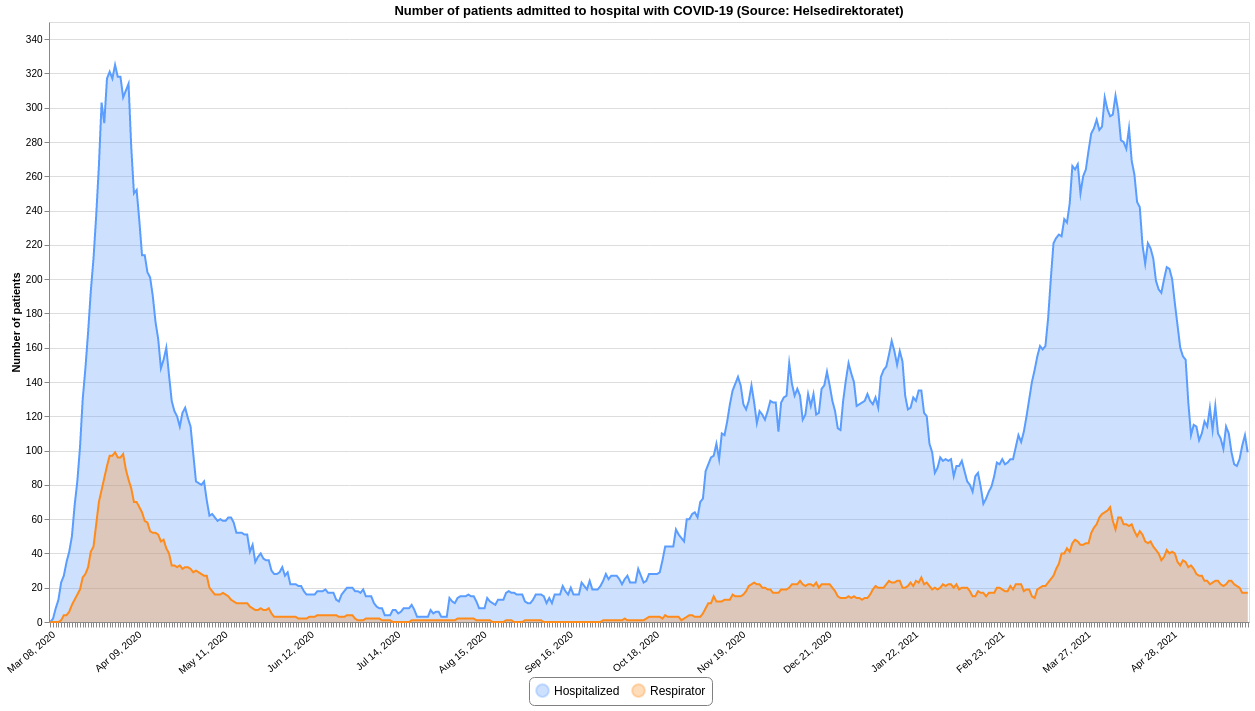
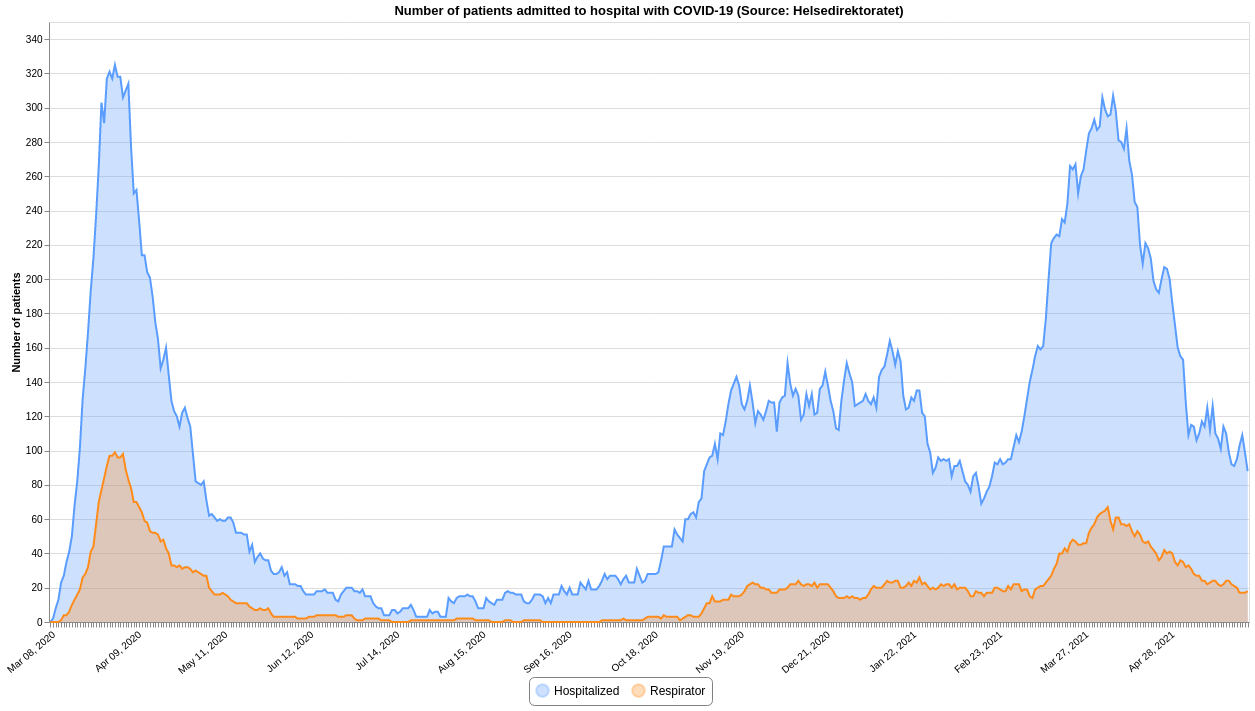
Updated 2021-05-27 12:51

diff --git a/README.md b/README.md
@@ -12,7 +12,7 @@ This repository contains datasets of daily time-series data related to COVID-19 
 | :--- | :--- | :--- | :--- | :--- |
 |[Confirmed](#confirmedcsv)|FHI / MSIS|2021-05-27 00:10:48+02:00|[<center>csv</center>](https://raw.githubusercontent.com/frefrik/c19norge-data/main/data/confirmed.csv)|[<center>preview</center>](data/confirmed.csv)|
 |[Dead](#deadcsv)|FHI|2021-05-26 13:20:54+02:00|[<center>csv</center>](https://raw.githubusercontent.com/frefrik/c19norge-data/main/data/dead.csv)|[<center>preview</center>](data/dead.csv)|
-|[Hospitalized](#hospitalizedcsv)|Helsedirektoratet|2021-05-26 12:20:54+02:00|[<center>csv</center>](https://raw.githubusercontent.com/frefrik/c19norge-data/main/data/hospitalized.csv)|[<center>preview</center>](data/hospitalized.csv)|
+|[Hospitalized](#hospitalizedcsv)|Helsedirektoratet|2021-05-27 12:50:50+02:00|[<center>csv</center>](https://raw.githubusercontent.com/frefrik/c19norge-data/main/data/hospitalized.csv)|[<center>preview</center>](data/hospitalized.csv)|
 |[Tested](#testedcsv)|FHI|2021-05-26 13:00:55+02:00|[<center>csv</center>](https://raw.githubusercontent.com/frefrik/c19norge-data/main/data/tested.csv)|[<center>preview</center>](data/tested.csv)|
 |[Tested Lab](#tested_labcsv)|FHI|2021-05-26 13:20:49+02:00|[<center>csv</center>](https://raw.githubusercontent.com/frefrik/c19norge-data/main/data/tested_lab.csv)|[<center>preview</center>](data/tested_lab.csv)|
 |[Transport](#transportcsv)|FHI|2021-05-26 09:00:51+02:00|[<center>csv</center>](https://raw.githubusercontent.com/frefrik/c19norge-data/main/data/transport.csv)|[<center>preview</center>](data/transport.csv)|
